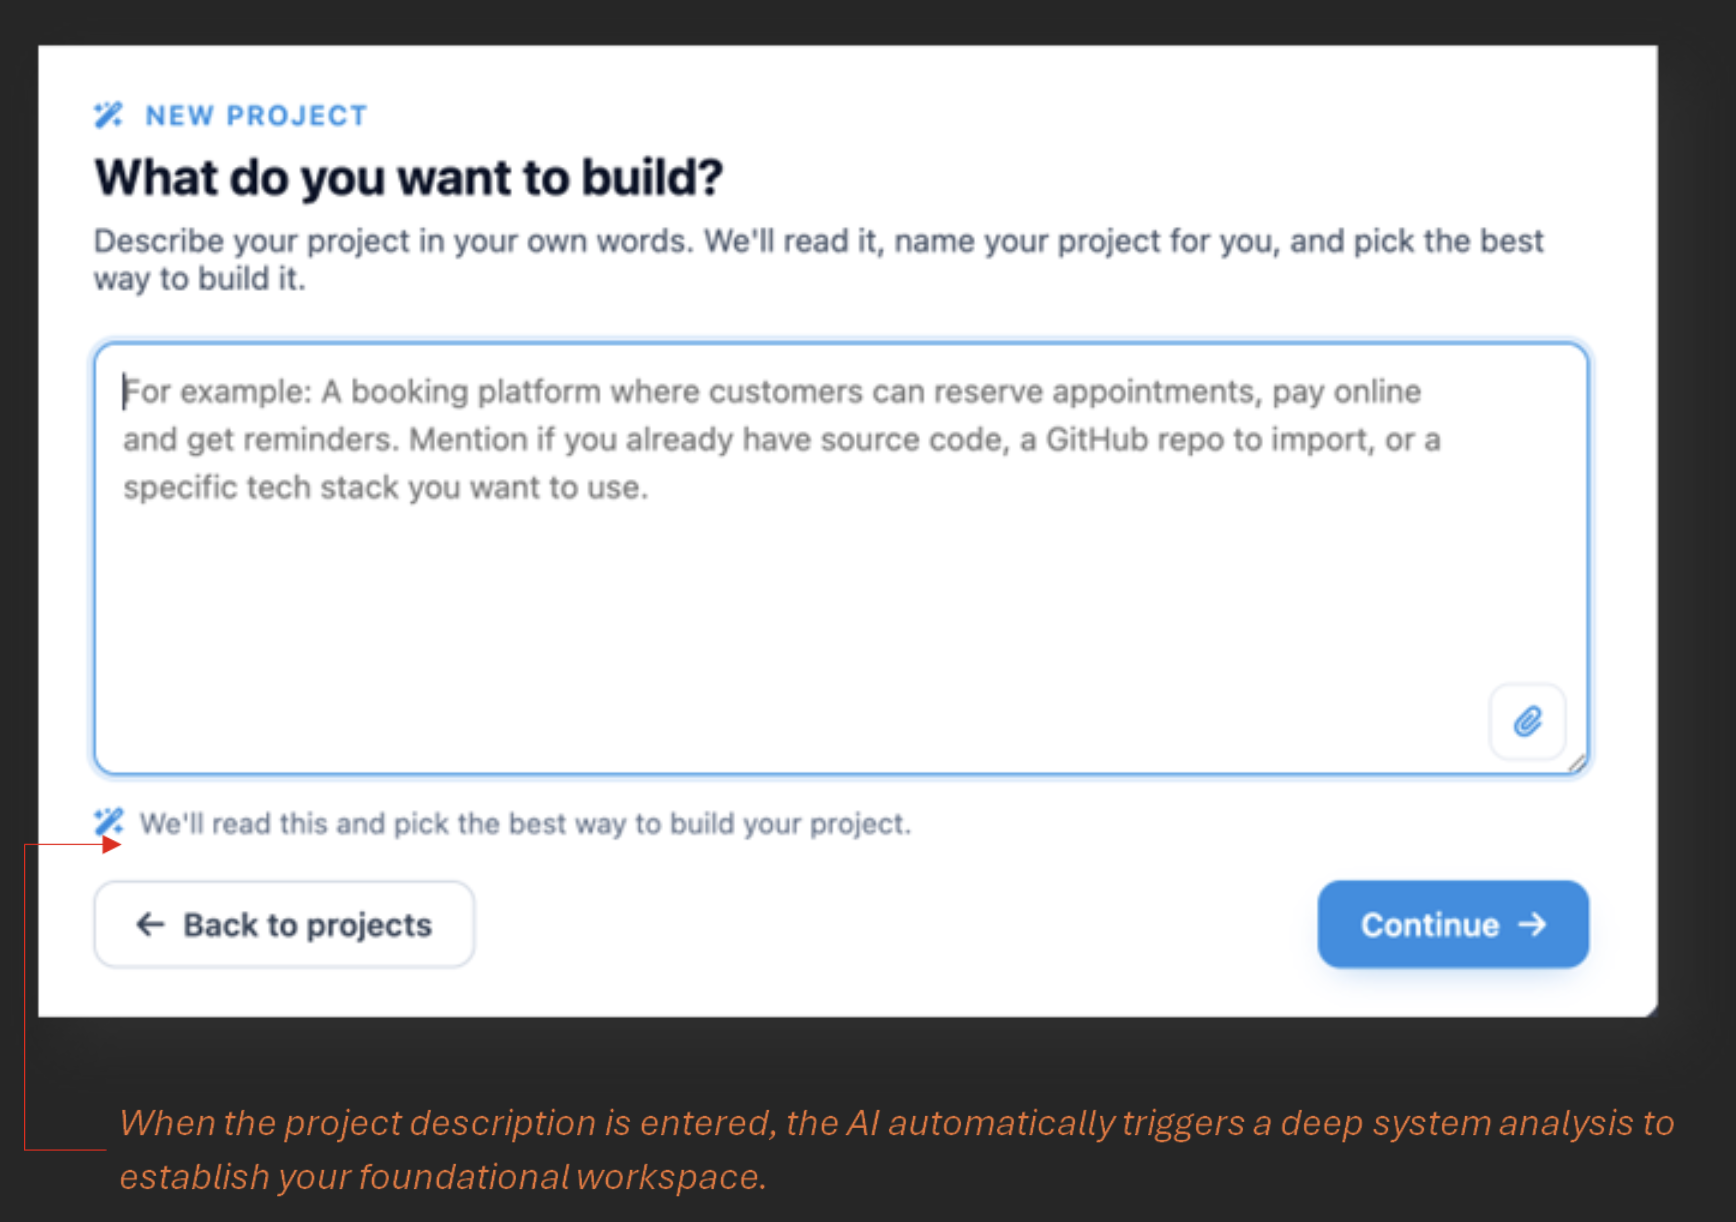
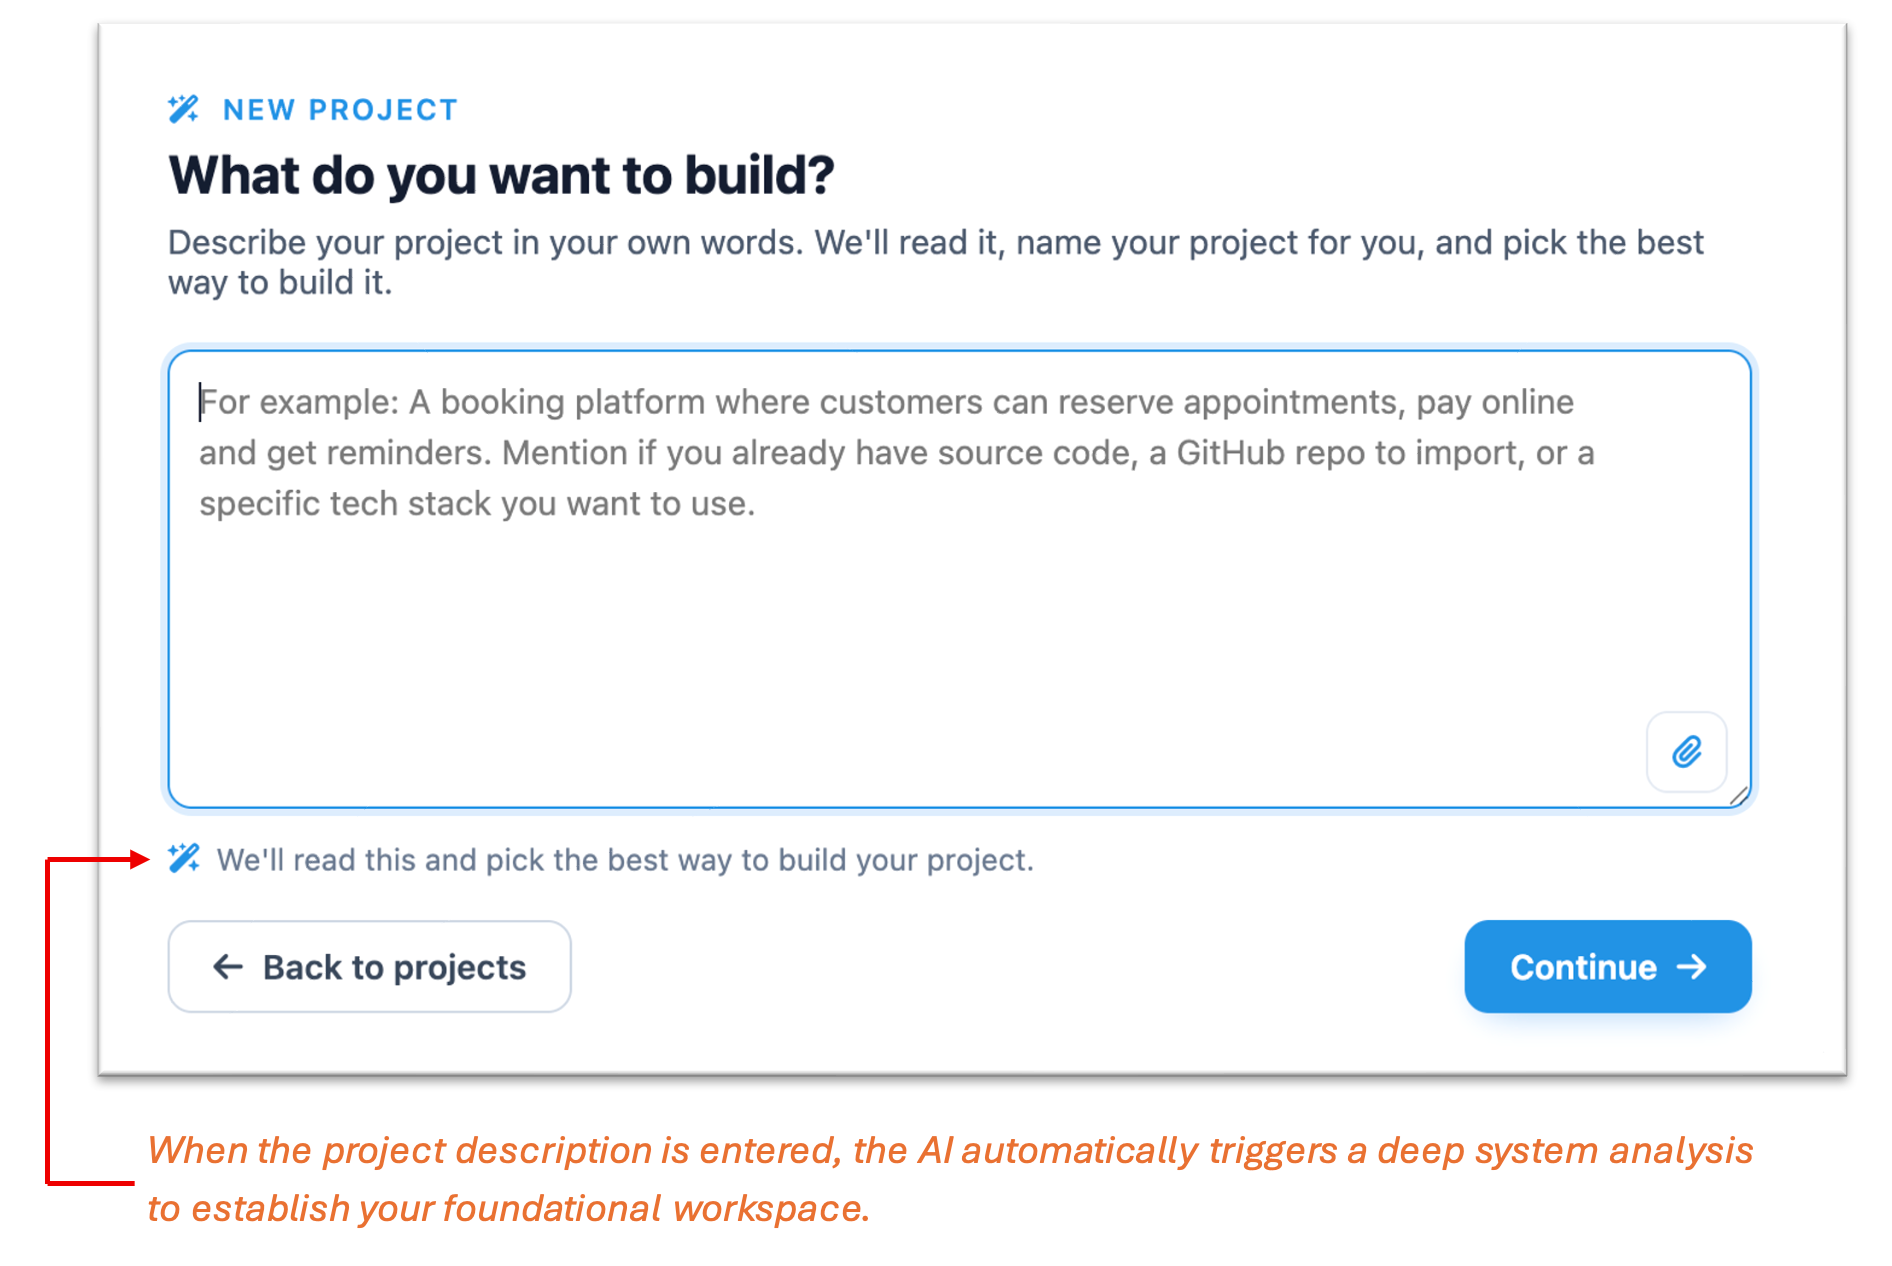
dev: vs code updated

diff --git a/dev/vs_code_integration.html b/dev/vs_code_integration.html
@@ -1,0 +1,192 @@
+<!doctype html>
+<html lang="en">
+  <head>
+    <meta charset="UTF-8" />
+    <meta name="viewport" content="width=device-width, initial-scale=1.0" />
+    <title>Think4ever - Developer</title>
+    <link href="../css/theme.css" rel="stylesheet" type="text/css" />
+
+    <link
+      rel="stylesheet"
+      href="https://cdnjs.cloudflare.com/ajax/libs/font-awesome/6.4.0/css/all.min.css"
+    />
+    <link rel="stylesheet" href="../assets/css/global.css" />
+    <link rel="stylesheet" href="../assets/css/onboarding.css" />
+    <link rel="stylesheet" href="../assets/css/portal.css" />
+    <link rel="stylesheet" href="../assets/css/dev_doc.css" />
+
+    <link rel="stylesheet" href="../assets/css/consumer_docs_home.css" />
+    <link rel="preconnect" href="https://fonts.googleapis.com" />
+    <link rel="preconnect" href="https://fonts.gstatic.com" crossorigin />
+    <link
+      href="https://fonts.googleapis.com/css2?family=Inter:wght@400;500;600;700&display=swap"
+      rel="stylesheet"
+    />
+    <script src="../assets/js/i18n.js"></script>
+  </head>
+
+  <body>
+    <div class="consumer-docs-home consumer-getting-started">
+      <!-- Skip to content -->
+      <a
+        href="#cd-main"
+        class="sr-only"
+        style="
+          position: absolute;
+          left: -9999px;
+          top: auto;
+          width: 1px;
+          height: 1px;
+          overflow: hidden;
+        "
+        onfocus="
+          this.style.position = 'static';
+          this.style.width = 'auto';
+          this.style.height = 'auto';
+        "
+        onblur="
+          this.style.position = 'absolute';
+          this.style.left = '-9999px';
+          this.style.width = '1px';
+          this.style.height = '1px';
+          this.style.overflow = 'hidden';
+        "
+        >Skip to main content</a
+      >
+      <!-- Site Header -->
+      <header class="modern-header" id="consumerHeader"></header>
+
+      <div class="consumer-docs-layout">
+        <!-- Mobile sidebar toggle -->
+        <button
+          class="cgs-sidebar-toggle"
+          id="cgsSidebarToggle"
+          aria-label="Toggle navigation menu"
+          aria-expanded="false"
+        >
+          <i class="fa fa-bars"></i>
+        </button>
+        <!-- Sidebar overlay -->
+        <div class="cgs-sidebar-overlay" id="cgsSidebarOverlay"></div>
+        <!-- Sidebar -->
+        <div id="devSidebar"></div>
+        <!-- Main Content -->
+        <main class="cd-main-content" id="cd-main">
+          <!-- Page Title -->
+          <h1 class="cd-page-title" id="cdHomeTitle">
+            Connect your project to VSC (Visual Studio Code)
+          </h1>
+
+          <!-- Overview Section -->
+          <section class="cd-overview" id="cdHomeOverview">
+            <div class="image-wrapper">
+              <img
+                src="../assets/images/dev-doc/vscode-1.png"
+                alt="VS Code Integration"
+                class="demo-img"
+              />
+            </div>
+
+            <div class="para-box">
+              <p>To connect your project to <strong>VS Code:</strong></p>
+              <ol class="cd-overview-ul">
+                <li>
+                  Click the <strong>VS Code</strong> button (highlighted in the
+                  top-right corner).
+                </li>
+                <li>
+                  VS Code Integration popup will be prompted.
+
+                  <div class="image-wrapper">
+                    <img
+                      src="../assets/images/dev-doc/vscode-2.png"
+                      alt="VS Code Integration"
+                      class="demo-img"
+                    />
+                  </div>
+                </li>
+                <li>
+                  Ensure the VS Code extension is installed on your browser. If
+                  not, click the <strong>Download.vsix</strong> button then
+                  install.
+                </li>
+                <li>
+                  Once installed, click on the extension icon in the sidebar,
+                  then select <strong>Think4ever</strong> icon.
+                </li>
+                <li>
+                  Click the ... <strong>(More Actions)</strong> icon at the top
+                  of the Extensions pane.
+                </li>
+                <li>
+                  <strong>Click Install</strong> from VSIX
+                  <div class="image-wrapper">
+                    <img
+                      src="../assets/images/dev-doc/vscode-3.png"
+                      alt="VS Code Integration"
+                      class="demo-img"
+                    />
+                  </div>
+                </li>
+                <li>
+                  Choose your .vsix file from the file explorer to complete the
+                  installation.-
+                </li>
+                <li>
+                  Once opened, your project files will appear in the Explorer
+                  panel on the left side.
+
+                  <div class="image-wrapper">
+                    <img
+                      src="../assets/images/dev-doc/vscode-4.png"
+                      alt="VS Code Integration"
+                      class="demo-img"
+                    />
+                  </div>
+                </li>
+              </ol>
+            </div>
+
+            <div class="para-box">
+              <h4 class="h4">
+                Troubleshooting: If VS Code does not open automatically
+              </h4>
+              <p>Try these:</p>
+              <ul class="cd-overview-ul">
+                <li>Allow pop-ups in your browser</li>
+                <li>Refresh the page and click the button again</li>
+                <li>Check if your browser blocked the redirect</li>
+              </ul>
+            </div>
+
+            <div class="para-box">
+              <h4 class="h4">Optional: Open Terminal in VS Code</h4>
+              <p>Inside VS Code:</p>
+              <ul class="cd-overview-ul">
+                <li>Go to <strong>Terminal → New Terminal</strong></li>
+                <li>
+                  Or press:
+                  <ul>
+                    <li><strong>Ctrl +</strong> ` (Windows)</li>
+                    <li><strong>Cmd +</strong> ` (Mac)</li>
+                  </ul>
+                </li>
+              </ul>
+            </div>
+          </section>
+        </main>
+      </div>
+    </div>
+    <div id="docFooter"></div>
+    <script src="../assets/js/navigation.js"></script>
+    <script src="../assets/js/consumer_docs_home.js"></script>
+    <script>
+      document.addEventListener("DOMContentLoaded", () => {
+        if (window.I18n) {
+          window.I18n.init();
+        }
+      });
+    </script>
+    <script src="https://cdnjs.cloudflare.com/ajax/libs/font-awesome/6.4.0/js/all.min.js"></script>
+  </body>
+</html>

diff --git a/components/dev-sidebar.html b/components/dev-sidebar.html
@@ -92,6 +92,12 @@
           <span>Public Access</span>
         </a>
       </li>
+      <li>
+        <a class="cgs-nav-link" onclick="load_dev_page('vs_code_integration')">
+          <i class="fa-solid fa-code"></i>
+          <span>VS Code Integration</span>
+        </a>
+      </li>
     </ul>
   </nav>
 </aside>
